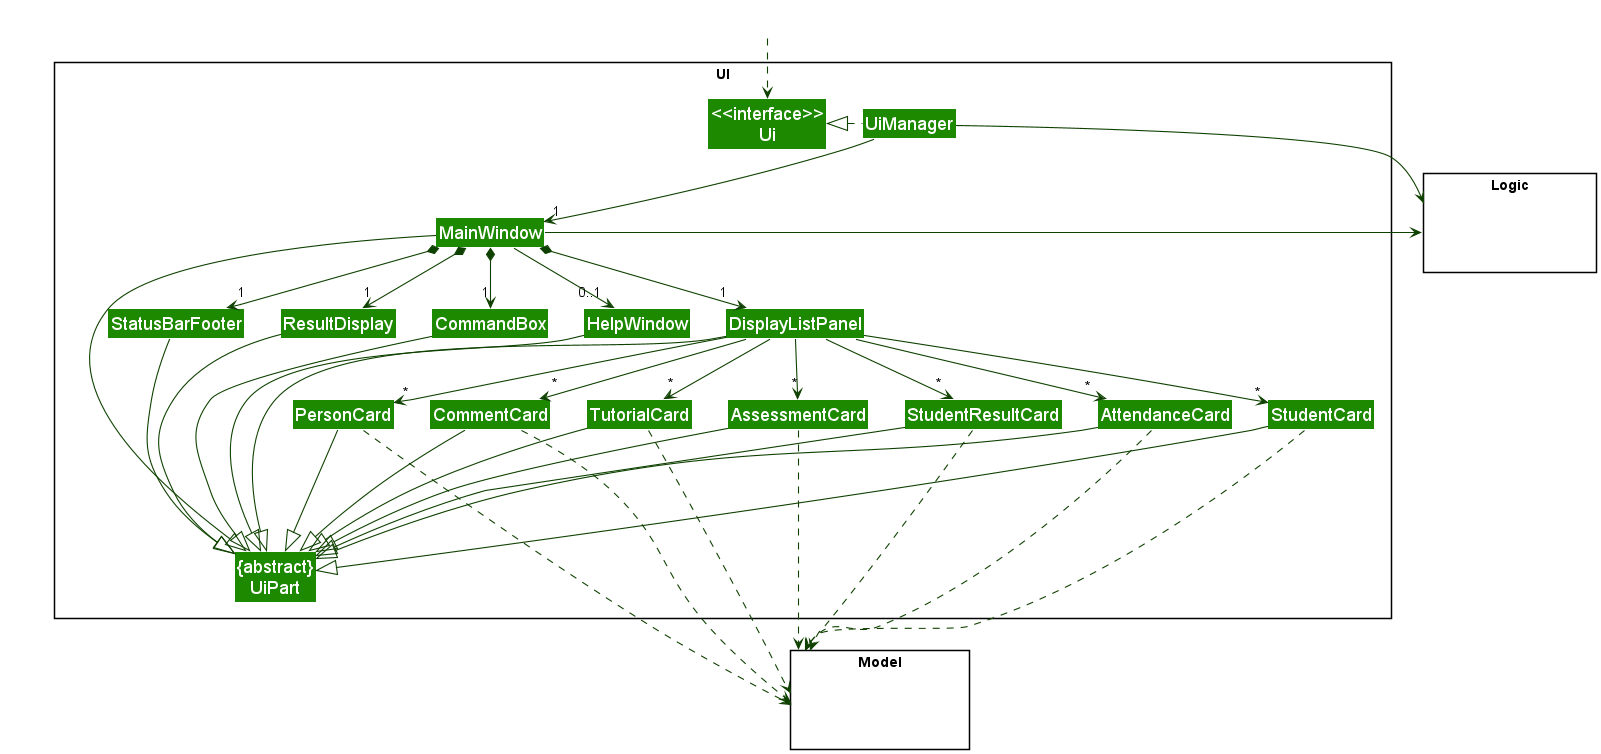
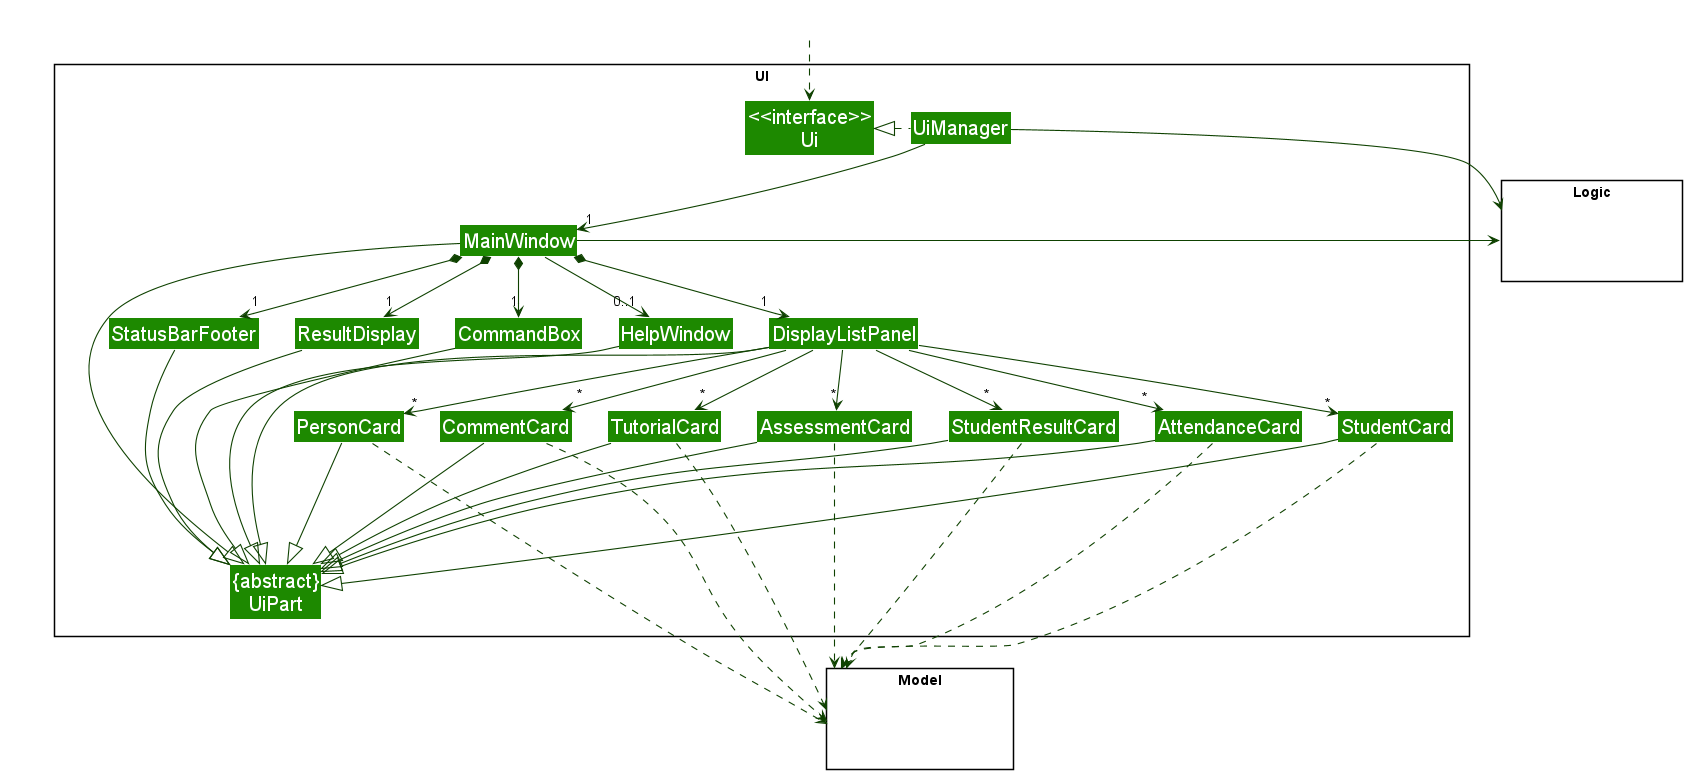
Make image clearer and update PPP

diff --git a/docs/team/seanlaiys.md b/docs/team/seanlaiys.md
@@ -50,6 +50,7 @@ Given below are my contributions to the project.
       * Added all of the UI screenshots to aid understanding for some commands [#209](https://github.com/AY2122S2-CS2103T-W13-2/tp/pull/209)
     * Developer Guide:
       * Added new feature on displaying student with Sequence Diagram (Display Students Feature) [#100](https://github.com/AY2122S2-CS2103T-W13-2/tp/pull/100)
+      * Updated UI Section [#252](https://github.com/AY2122S2-CS2103T-W13-2/tp/pull/252)
       * Updated UI Class Diagram [#100](https://github.com/AY2122S2-CS2103T-W13-2/tp/pull/100)
       * Updated Storage Class Diagram [#232](https://github.com/AY2122S2-CS2103T-W13-2/tp/pull/232)
 
